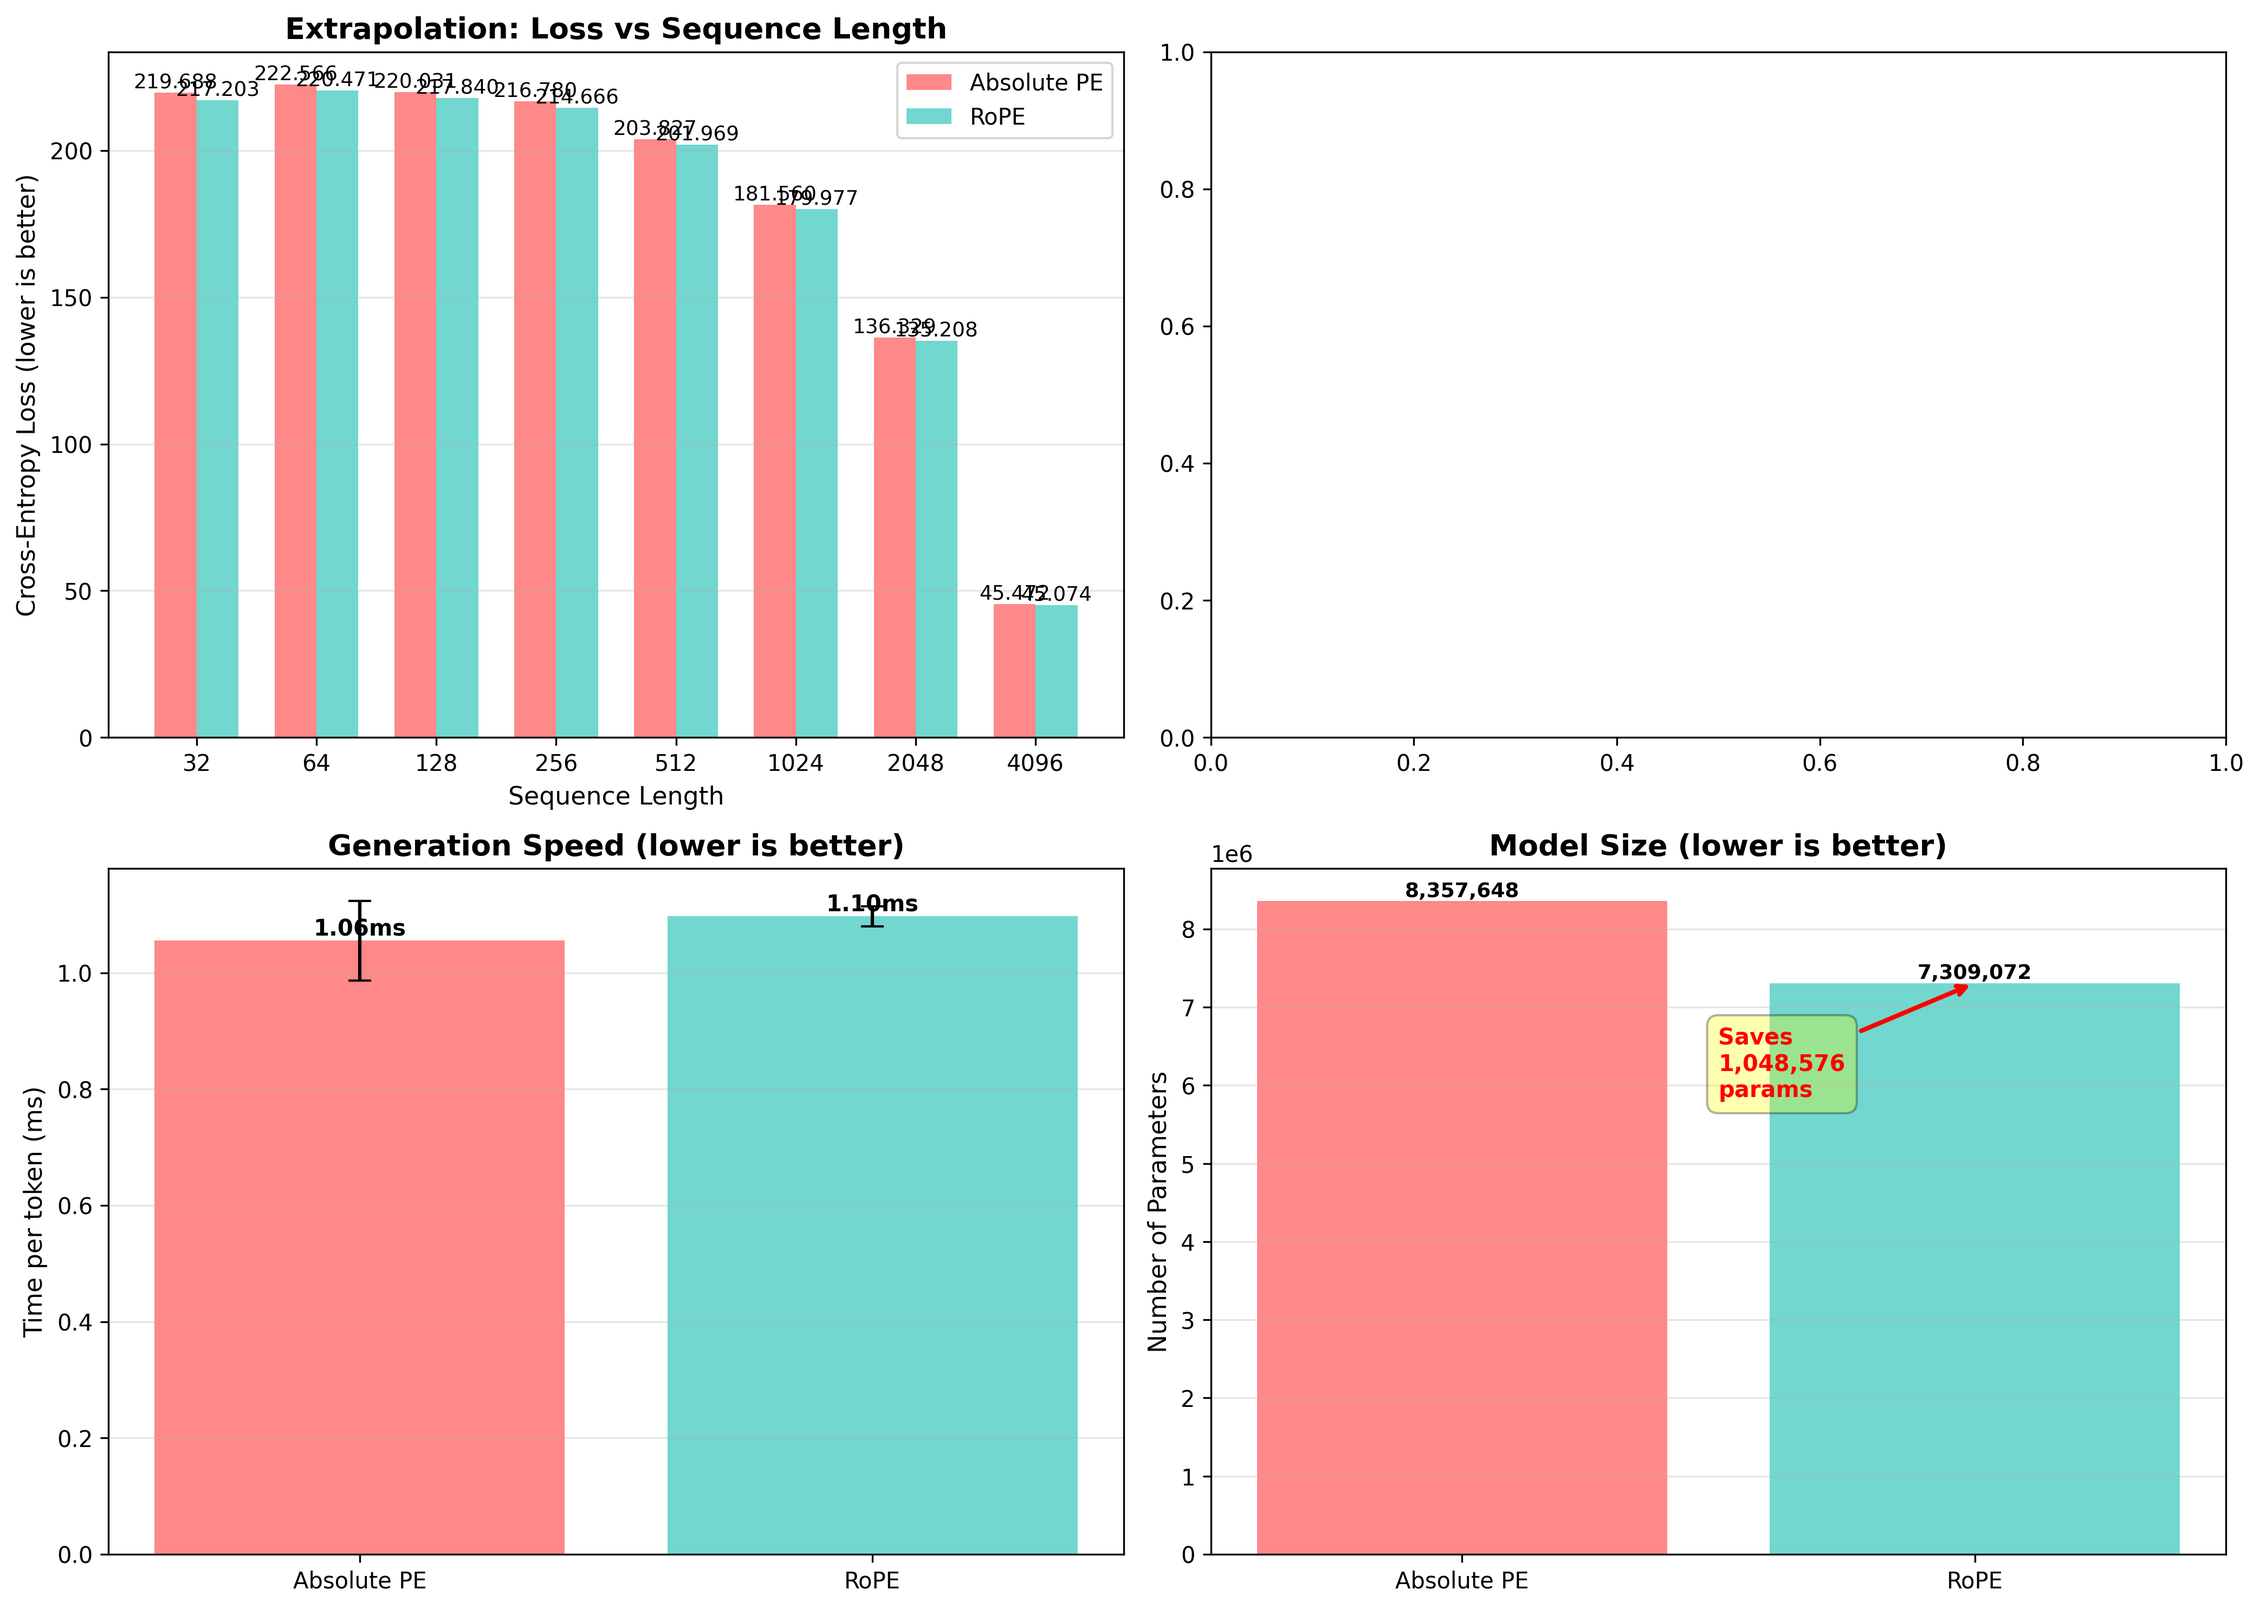
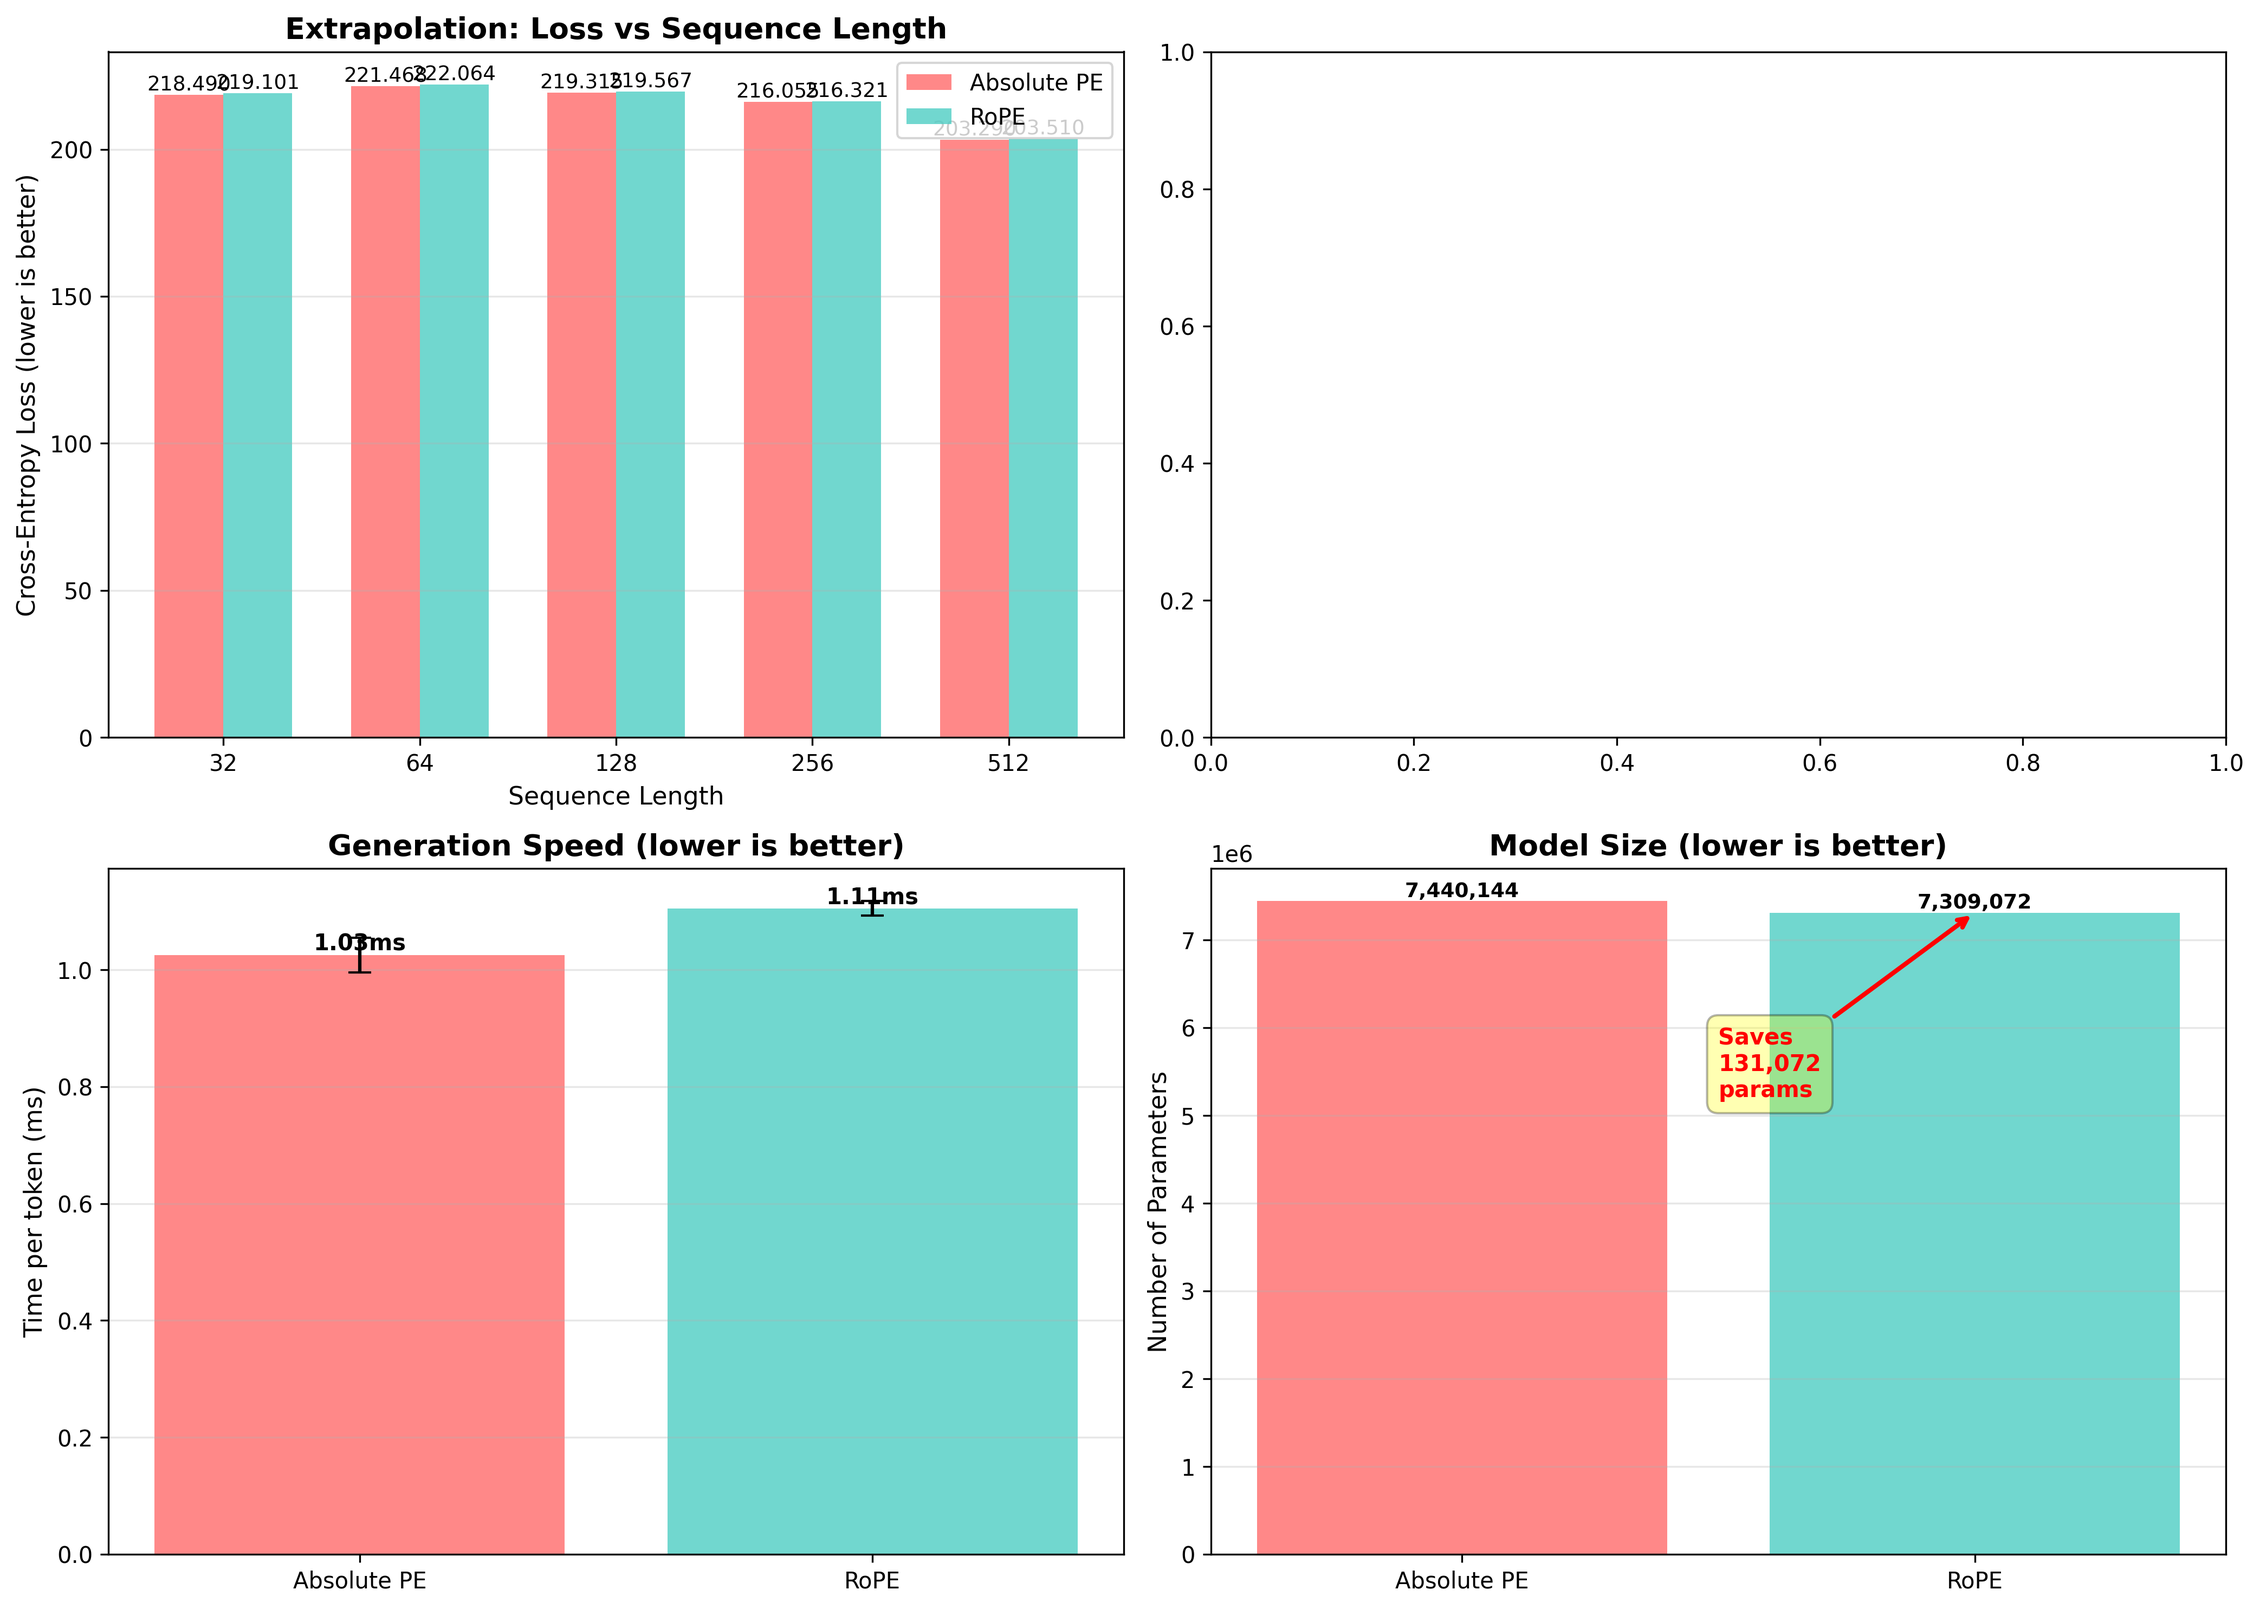
rope for additional sequence length

diff --git a/llm_scratch/final_model_rope.py b/llm_scratch/final_model_rope.py
@@ -18,7 +18,7 @@ class Embeddings(nn.Module):
         return self.dropout(tok)               # (B, T, D)
 
 class MultiHeadAttentionKVCache(nn.Module):
-    def __init__(self, embed_dim, num_heads, dropout=0.1, max_seq_len=512):
+    def __init__(self, embed_dim, num_heads, dropout=0.1, max_seq_len=512, theta=10000.0):
         super().__init__()
         assert embed_dim % num_heads == 0
         self.num_heads = num_heads
@@ -28,11 +28,23 @@ class MultiHeadAttentionKVCache(nn.Module):
         self.W_v = nn.Linear(embed_dim, embed_dim)
         self.W_o = nn.Linear(embed_dim, embed_dim)
         self.dropout = nn.Dropout(dropout)
+        self.theta = theta  # Store theta for dynamic computation
         # Precompute RoPE frequencies for maximum sequence length
         self.register_buffer(
             "freqs_cis",
             precompute_freqs_cis(self.head_dim, max_seq_len)
         )
+        self.max_cached_len = max_seq_len
+    
+    def _extend_freqs_if_needed(self, seq_len: int):
+        """
+        Dynamically extend frequency cache if sequence is longer than cached
+        """
+        if seq_len > self.max_cached_len:
+            # Compute new frequencies for longer sequence
+            new_freqs_cis = precompute_freqs_cis(self.head_dim, seq_len, self.theta)
+            self.freqs_cis = new_freqs_cis.to(self.freqs_cis.device)
+            self.max_cached_len = seq_len
 
     def forward(self, x, kv_cache=None, use_cache=False):
         B, T, D = x.shape
@@ -51,6 +63,10 @@ class MultiHeadAttentionKVCache(nn.Module):
         if kv_cache is not None:
             K_cache, V_cache = kv_cache
             past_len = K_cache.size(2)
+        
+        # Extend frequency cache if needed for current sequence
+        total_len = past_len + T
+        self._extend_freqs_if_needed(total_len)
         
         # Apply RoPE to Q and K_new
         # Extract the relevant frequency range based on current positions

diff --git a/rope/benchmark_rope_untrained.py b/rope/benchmark_rope_untrained.py
@@ -23,7 +23,7 @@ config = {
     'embed_dim': 256,
     'num_heads': 8,
     'num_layers': 6,
-    'train_max_seq_len': 4096,
+    'train_max_seq_len': 512,
     'test_seq_lengths': [32, 64, 128, 256, 512, 1024, 2048, 4096],
     'num_test_samples': 50,
     'output_dir': '/Users/raj/Documents/GitHub/my_llm_model/rope'
